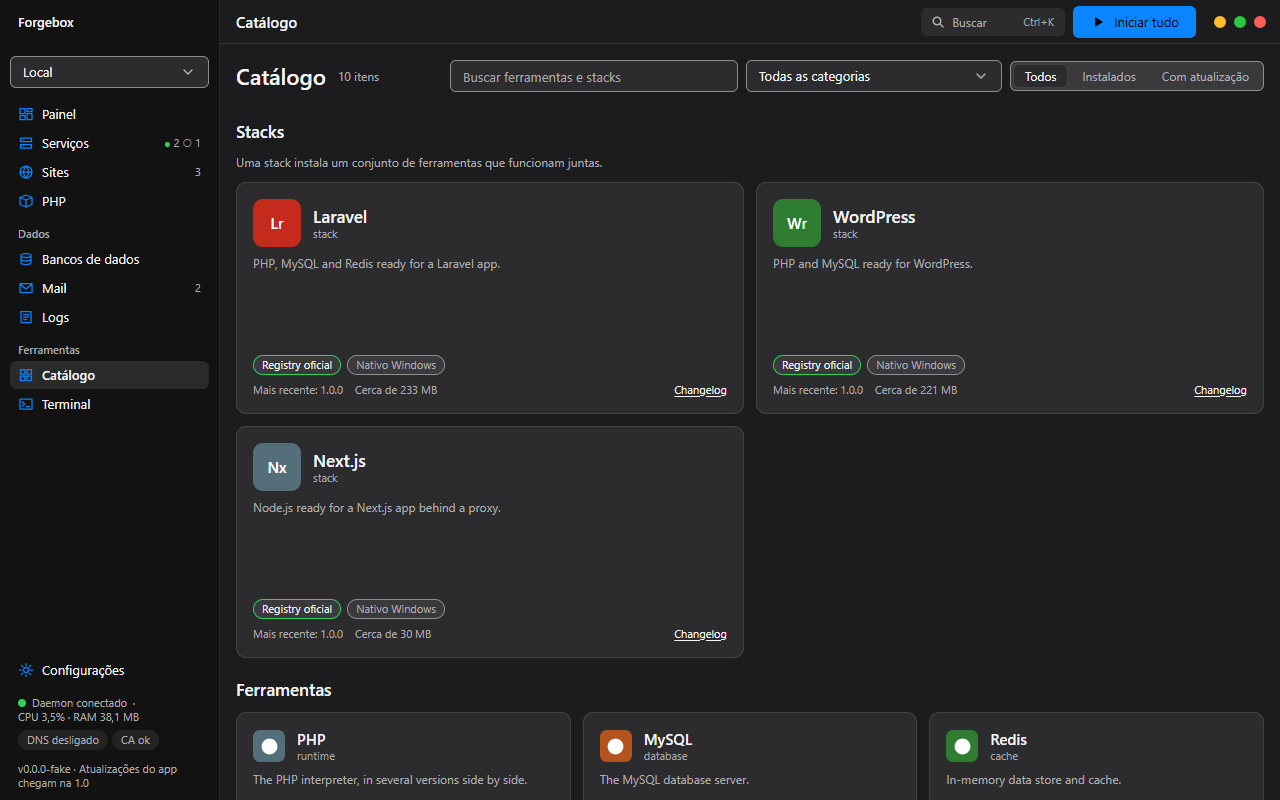
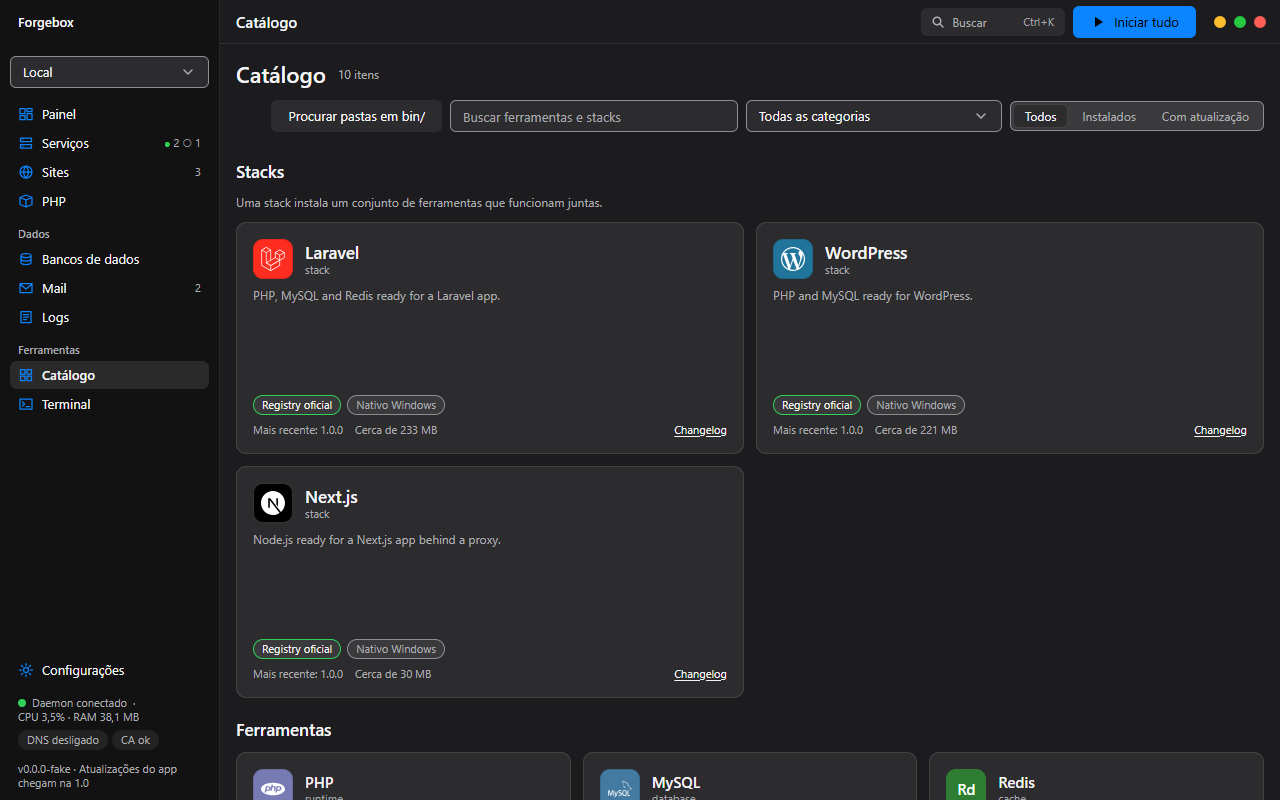
M2-E1-T24: docs, gallery tiles, reference screens and STATUS review
Document style C in docs/07 2.4 and section 6 (ToolTile), add the task to
docs/10, show every official registry icon in the gallery, regenerate the
Catalog, Dashboard and Services reference screens and drop the KNOWN_OPEN
entries of qa/checks/states.spec.ts that E4-T9 already fixed (the
stale-entry guard failed on them).

diff --git a/apps/desktop/src/app/gallery/Gallery.tsx b/apps/desktop/src/app/gallery/Gallery.tsx
@@ -20,6 +20,8 @@ import {
   TextField,
   Toggle,
 } from "../../design/primitives";
+import { ToolTile } from "../../design/primitives/ToolTile";
+import { REGISTRY_ICONS } from "../../../qa/fixtures/scenarios/registryIcons";
 import { CommandPalette } from "../palette/CommandPalette";
 import type { PaletteActions } from "../palette/actions";
 import { P, shows, type GalleryMarker } from "../../design/gallery/marker";
@@ -69,6 +71,8 @@ const SAMPLE_PORT = "80";
 const SAMPLE_PATH = "C:/www/app";
 const KEY_CTRL = "Ctrl";
 const KEY_K = "K";
+// A tool of no registry: the monogram fallback next to the official logos.
+const THIRD_PARTY_TOOL = "redis";
 // Inert actions: the gallery renders the real palette (rows with/without CLI, shortcut and
 // unavailable reason come from the live capabilities, instances and sites) without side effects.
 const NOOP_PALETTE_ACTIONS: PaletteActions = {
@@ -248,6 +252,28 @@ export default function Gallery() {
       <Section title={t("kbd.title")} {...shows(P.Kbd)}>
         <span className="inline-flex items-center gap-1 text-callout text-fg-secondary">
           <Kbd>{KEY_CTRL}</Kbd>+<Kbd>{KEY_K}</Kbd> {t("kbd.palette")}
+        </span>
+      </Section>
+
+      <Section title={t("toolTile.title")} {...shows(P.ToolTile)}>
+        {[...REGISTRY_ICONS].map(([id, icon]) => (
+          <span
+            key={id}
+            data-gallery-tool={id}
+            className="flex w-20 flex-col items-center gap-1 text-caption text-fg-secondary"
+          >
+            <ToolTile tool={id} svg={icon.svg} color={icon.color} variant="grid" />
+            <ToolTile tool={id} svg={icon.svg} color={icon.color} variant="list" />
+            {id}
+          </span>
+        ))}
+        <span
+          data-gallery-tool={THIRD_PARTY_TOOL}
+          className="flex w-20 flex-col items-center gap-1 text-caption text-fg-secondary"
+        >
+          <ToolTile tool={THIRD_PARTY_TOOL} variant="grid" />
+          <ToolTile tool={THIRD_PARTY_TOOL} variant="list" />
+          {t("toolTile.fallback")}
         </span>
       </Section>
 

diff --git a/apps/desktop/qa/checks/states.spec.ts b/apps/desktop/qa/checks/states.spec.ts
@@ -18,22 +18,12 @@ const SCENARIOS_UNDER_TEST = ["errors", "not-implemented", "daemon-down"] as con
  * test below fails when an entry stops reproducing, so whoever fixes the screen has to delete
  * the line (the stale-entry guard), and a new offender outside the list fails the build.
  */
-const SITE = "/sites/01QAS1TE000000000000000001";
 const KNOWN_OPEN: Record<string, string> = {
   "/dashboard|errors":
     "R-09 family (E4-T9): Sites recentes stays a skeleton (Projetos is fixed, R-15)",
   "/dashboard|not-implemented": "R-16 (E4-T9): tiles stay skeletons",
-  "/services|not-implemented": "R-16 (E4-T9)",
-  "/sites|errors": "R-09 (E4-T9)",
-  "/sites|not-implemented": "R-09 (E4-T9)",
-  "/php|not-implemented": "R-16 (E4-T9)",
-  [`${SITE}|errors`]: "R-10 (E4-T9)",
-  [`${SITE}|not-implemented`]: "R-10 (E4-T9)",
-  [`${SITE}|daemon-down`]: "R-10 (E4-T9)",
-  "/catalog/php|not-implemented": "R-16 (E4-T9)",
-  "/catalog/php|daemon-down": "R-16 (E4-T9)",
-  "/catalog/laravel|not-implemented": "R-16 (E4-T9)",
-  "/catalog/laravel|daemon-down": "R-16 (E4-T9)",
+  // The Services, Sites, site detail, PHP and tool page entries were fixed by E4-T9 (the
+  // stale-entry guard below flagged them; removed in M2-E1-T24).
 };
 
 /** The gallery shows skeletons on purpose (it is the primitives catalogue). */

diff --git a/apps/desktop/src/design/gallery/marker.ts b/apps/desktop/src/design/gallery/marker.ts
@@ -25,6 +25,7 @@ export const P = {
   CommandPalette: "CommandPalette",
   Kbd: "Kbd",
   Tooltip: "Tooltip",
+  ToolTile: "ToolTile",
 } as const;
 
 /** Attribute that tells which docs/07 section 6 primitive(s) a gallery block shows. */

diff --git a/docs/10-roadmap-and-agent-tasks.md b/docs/10-roadmap-and-agent-tasks.md
@@ -79,6 +79,7 @@ Convenção de IDs: `M<milestone>-E<épico>-T<tarefa>`. Estados: `todo | doing |
   - **M2-E1-T21 Gate M2-E1 (auditoria do shell, cold start medido, tamanhos).** Aceite do épico em develop: `qa:check` e `qa:perf` no shell, primitivas, paleta e galeria; `e2e-desktop.ps1`; `ci.ps1` e `ci.ps1 -Desktop`. Cold start em janela quieta (release, 1 descartada + 10, com e sem daemon) registrado em docs/07 §10 e STATUS; tamanho do `Forgebox.exe` contra docs/08 (~8 MB) e do JS inicial; correção de achados pequenos e follow-ups Win11 como itens humanos do M2-E4-T11; docs/02, docs/07, índice de ADRs e STATUS atualizados. **Aceite:** Checklist §11 preenchido com evidência por item; mediana de cold start < 800 ms com daemon rodando e parado (números brutos versionados); `ci.ps1`, `ci.ps1 -Desktop` e `e2e-desktop.ps1` verdes; tamanhos registrados contra as metas. Depende de: M2-E4-T6, M2-E1-T15, M2-E1-T16, M2-E1-T18, M2-E1-T20, M2-E4-T4, M2-E4-T5. **Resultado (2026-11-04, [07 §10/§11](07-ui-ux.md#10-performance-orçamentos)):** cold start e tamanhos medidos, orçamentos re-baselinados em `pnpm size` (JS inicial ≤ 175 KiB gzip, chunk lazy ≤ 100 KiB, exe ≤ 17 MiB); follow-ups abertos: redução do `Forgebox.exe` de 16,2 MiB para ~8 MB → M4-E1; long task de ~95 ms na tela PHP → M2-E4-T9; Mica/Acrylic/blur reais, snap layouts, DPI real, bandeja e atalhos globais → verificação humana do M2-E4-T11.
   - **M2-E1-T22 Ícones da marca: app/EXEs e estados da bandeja a partir da arte de referência do usuário.** A arte enviada pelo usuário (mockup 1536x1024: ícone de 512 a 16 px, seis variantes de estado da bandeja, prévia na barra de tarefas e menu da bandeja usado pelo M2-E1-T15) é a fonte da verdade: vira `docs/design/brand/reference-icon-tray.png`, com `docs/design/brand/README.md` (intenção, tabela estado -> selo, como regenerar). Master quadrado e transparente (>= 512 px, 1024 se a qualidade permitir) fiel à referência, sem halo escuro sobre branco, `#f3f3f3`, `#202020` e as barras clara/escura do Win10; se o recorte do raster não ficar limpo, recriar em SVG (`docs/design/brand/forgebox-icon.svg`) e rasterizar. 16/20/24/32 px como variantes simplificadas ajustadas à mão (menos camadas, prompt mais grosso, alinhadas ao pixel), não redução simples. `apps/desktop/src-tauri/icons/*` regenerados com `pnpm -C apps/desktop tauri icon <master>`; `icon.ico` com 16, 20, 24, 32, 40, 48, 64 e 256 (as pequenas ajustadas à mão), usado por `Forgebox.exe`, janela/barra de tarefas e o futuro instalador; o mesmo `.ico` embutido por `build.rs` (`cfg(windows)`, winresource ou embed-resource aprovado no `cargo deny`) em `forge.exe`, `forgeboxd.exe`, `forgebox-helper.exe` (mantendo o manifesto `requireAdministrator` e o teste `embedded_manifest`), `forge-mcp.exe` e `forgebox-ctrl.exe`; EXE que não aceitar fica documentado no PR. Ícones da bandeja `apps/desktop/src-tauri/icons/tray/<estado>-<light|dark>.ico` (16/20/24/32 px, 40/48 opcionais) para base, running, starting-0..7 (anel girando), stopped, updating, warning, error e a sobreposição de contexto remoto (docs/13 §5); variante escura com aro mais claro na caixa, clara com contraste suficiente; selos no canto inferior direito com ~45-50 % do ícone e anel de recorte de 1 px, sempre diferentes também pela forma (ponto, anel, quadrado, seta, `!`). Gerador reproduzível sem Python (`apps/desktop/scripts/gen-icons.mjs` ou `cargo xtask icons`) e `icons:check` que falha com drift sem rede, ligado ao `scripts/ci.ps1 -Desktop`. Folha de contato `docs/design/brand/contact-sheet.png` com todos os ícones em todos os tamanhos sobre barras claras e escuras e em 100/125/150/200 %. Atualiza docs/07 §2.4 e §7 (estados running/starting/stopped/updating/warning/error + indicador remoto, caminho `apps/desktop/src-tauri/icons/tray/`), docs/08 se listar ícones, docs/10, STATUS e `docs/plans/m2-plan.json`. **Aceite:** Todo arquivo de ícone se regenera das fontes em `docs/design/brand` com o gerador versionado (sem Python, sem rede); `icons:check` passa na árvore limpa e falha após editar um `.ico` à mão; `pnpm -C apps/desktop tauri build --debug --no-bundle` produz o `Forgebox.exe` com o ícone novo e `forge.exe`, `forgeboxd.exe`, `forgebox-helper.exe`, `forge-mcp.exe` e `forgebox-ctrl.exe` o carregam (conferido extraindo o recurso), ou o PR explica o que ficou de fora; o teste do manifesto do helper continua passando; a folha de contato mostra os ícones legíveis em 16 px nas barras clara e escura, sem halo escuro em fundo claro e com selos distinguíveis só pela forma; `cargo build/clippy -D warnings/test --workspace`, `cargo deny check` e lint/typecheck/test do desktop passam; docs/07 §2.4 e §7, `docs/design/brand/README.md`, docs/10, STATUS e `docs/plans/m2-plan.json` atualizados. Depende de: M2-E1-T1.
   - **M2-E1-T23 Moldura de vidro (decisão do usuário, 2026-11-04): sidebar de vidro em altura total, controles da janela como bolinhas coloridas à direita, visual mais leve.** Aprovada sobre o mockup `docs/design/reference/glass-mockup.html` (não re-discutir). Layout: a sidebar ocupa a altura toda da janela a partir da borda de cima (sem titlebar de largura total) com a marca 'Forgebox' no topo (região de arrasto); o painel de conteúdo ganha a própria barra de ferramentas (~44 px: título da página, slot da busca `Ctrl+K`, ação primária opcional e os controles da janela no canto direito), toda ela região de arrasto (duplo clique maximiza/restaura; o redimensionar pela borda de cima continua); o onboarding usa a mesma barra. Controles: três bolinhas de ~12 px na ordem do Windows à direita (minimizar amarela, maximizar/restaurar verde, fechar vermelha; tokens com traço interno fino), glifos no hover do grupo, cinza (token) com a janela sem foco (eventos de foco do Tauri), alvo >= 24x24, Tab + anel de foco, `aria-label` + `title`, Enter/Espaço. Vidro: material só atrás da sidebar, conteúdo opaco; nova política em `choose_effect` (usuário desligou/RDP/transparência desligada/alto contraste -> opaco; Windows 11 >= 22621 -> Acrylic; Windows 11 22000 -> Mica; Windows 10 1809+ -> `window_vibrancy::apply_blur` por padrão com a tinta pintada pelo CSS, `--bg-sidebar-glass`), medição de arrasto/redimensionamento com blur x opaco no console físico Win10 19045 registrada no adendo da ADR-0035. Visual mais leve: sidebar estilo Finder (grupos sem bordas com títulos cinza pequenos, seleção preenchida de 7 px, ícones de linha na cor de destaque, contagens à direita), status do daemon/DNS/CA no rodapé da sidebar e barra de status inferior removida (todas as funções mantidas), variantes do `Button` (secundário = preenchimento suave sem contorno, primário sólido, destrutivo com texto vermelho), ícones de tool via `tools.icon` ou monograma colorido em quadrado arredondado (cor determinística pelo id) em toda tela que mostra uma tool. **Aceite:** sidebar em altura total e barra de conteúdo como região de arrasto (vitest + captura real claro/escuro); controles na ordem, cores de token, glifos no hover, cinza sem foco, acessíveis por teclado e leitor de tela (vitest); testes de `choose_effect` para a política nova e adendo da ADR-0035 com a medição; vidro visível na janela real Win10 com conteúdo opaco e fallback `data-vibrancy=off` correto; barra de status removida com as funções no rodapé da sidebar, variantes suaves do `Button` e nenhum ícone de círculo preto em Dashboard/Serviços/Catálogo (teste do monograma); `qa:check` verde, shots `ci` regenerados e `--perf-startup` dentro do orçamento. Depende de: M2-E1-T7, M2-E1-T10, M2-E1-T11.
+  - **M2-E1-T24 Ícones das tools com os logos oficiais (decisão do usuário, 2026-11-04, estilo C: glifo branco oficial em bloco preenchido com a cor da marca).** Aprovado sobre o mockup de ícones (estilos A e B recusados; não re-discutir). (1) Ícones: todo `registry/icons/*.svg` vira a forma oficial do logo como glifo monocromático (`viewBox 0 0 24 24`, `fill=currentColor`, sem `<text>`, <= 20 KB, aprovado por `sanitize_svg`), do Simple Icons 14.0.0 (dados CC0) ou, para Mailpit, Memurai e Xdebug, redesenhado do logo oficial; `registry/icons/ATTRIBUTION.md` lista origem, licença do SVG, dono da marca e guia de marca de cada um (uso nominativo). (2) Cor da marca: `metadata.icon_color` opcional (`#RRGGBB`, validado) em Tool/Extension/Stack (docs/04 §1.10, schema, gen-ts, lint-registry), definido em todo manifesto oficial e exposto em `CatalogEntryDto.icon_color` e `IconDto.icon_color`. (3) `ToolTile`: glifo branco no bloco da cor (`--tool-brand`), contorno interno de 12 %, cor clara escurecida de forma genérica até o branco ter 3:1, contorno claro em blocos muito escuros no tema escuro, tamanhos/raios/contornos como tokens (`list` 30, `grid` 40, `hero` 56); monograma FNV mantido sem ícone ou sem cor. (4) Índice reassinado com a chave de desenvolvimento, docs 04/07, capturas antes/depois. **Aceite:** logos oficiais brancos no bloco da cor da marca em Painel, Serviços, Catálogo, página da ferramenta e onboarding (claro, escuro, sem vibrancy; capturas); SVGs <= 20 KB, `currentColor`, `sanitize_svg` e `lint-registry` verdes, índice reassinado, ATTRIBUTION.md completo; `metadata.icon_color` no schema + docs/04 + TS gerado, hex inválido recusado pelo lint (teste), contraste do branco >= 3:1 em toda cor do registry (teste unitário); monograma para tools sem ícone/cor (vitest); `qa:check` verde. Depende de: M2-E1-T23.
 - **M2-E2 Telas núcleo**: Onboarding, Dashboard, Serviços (+detalhe), Sites (+detalhe com troca de PHP ao vivo), PHP, Catálogo (instalar com progresso). **Aceite:** cada tela com estados vazio/carregando/erro; paridade com CLI (mostra comando).
   - **M2-E2-T1 Contratos IPC das telas núcleo.** PR contract-first, todo aditivo (`API_VERSION` segue 1.1). Métodos novos com `cli_template` e stub clap: `tools.releases` (job), `tools.plan` (job; `--dry-run`), `tools.history`, `tools.icon`, `services.settings`, `sites.driver` (job), `services.update` (job) e `tls.list`. Campos novos em `CatalogEntryDto`, `ToolInfoDto`, `ToolInstallParams.target` (`--for php@8.3`), `ServiceCreateParams.data_dir`, `InstanceDto.data_dir/size_bytes` e `SiteProcessDto.instance_id`/`site_id` nos payloads `service.*`. Tudo registrado em `NOT_IMPLEMENTED` com o id da tarefa implementadora. ADR-0041 e docs/09. **Aceite:** Round-trip serde de todo DTO/campo novo e JSON da API 1.0 desserializa com defaults; linhas de `METHODS` com kind/role/mutating/local_only corretos; gen-ts sem drift; golden e round-trip clap cobrem os templates; cada forma de CLI nova sai com 1 e `not_implemented` nomeando a tarefa. Depende de: M2-E1-T4.
   - **M2-E2-T2 Correção do domínio de `seq` em `logs.subscribe`.** Hoje o backlog das instâncias é numerado por linha do arquivo e as linhas ao vivo por um `seq` em memória do `LogHub`, alvos de arquivo zeram o `seq` na rotação e `resume_from` nunca reenvia o que se perdeu; o cliente descarta linhas ao vivo com `seq <= last_seq`, o que também quebra o `forge logs -f` já lançado. Correção: um `seq` monotônico por alvo (índice absoluto de linha no conjunto retido, inclusive rotacionados); no resume, reenvia dos arquivos se o cursor estiver dentro do retido, senão `logs.lagged{missed}`; devolve o `last_seq` verdadeiro. Mudança autocontida (`logs.rs`, `LogHub`, testes). Decisão do usuário: sem hotfix 0.1.1, a correção entra só no develop / 0.2.0. **Aceite:** Regressões: tail após reinício do daemon, após rotação e resume com reenvio ou `logs.lagged`; `seq` estritamente monotônico por alvo; `forge logs <instância> -f` vê linhas ao vivo após reinício; testes de logs e de assinante lento seguem passando.

diff --git a/docs/STATUS.md b/docs/STATUS.md
@@ -59,7 +59,7 @@ Ao iniciar uma tarefa, marcar `doing` (primeiro commit); ao terminar, `review` (
 | M2-E1-T21 | Gate M2-E1 (auditoria do shell, cold start medido, tamanhos) | done | feature/M2-E1-T21-e1-gate | Épico M2-E1 fechado: checklist §11 com evidência por item e por superfície do shell ([07 §11](07-ui-ux.md#11-checklist-de-revisão-de-ui-para-agentes)), números brutos em [07 §10](07-ui-ux.md#10-performance-orçamentos), adendo da [ADR-0034](adr/0034-desktop-shell-architecture.md). Cold start (release, 1 descartada + 10): RDP 770/776,5 ms com daemon e 760,5/770,5 sem; console (depois do T23, blur) 590/579,5 com e 565,5/563,5 sem; todas < 800. Correções: auto-start automático do daemon espera o primeiro quadro (`FirstFrameGate`, teto 3 s; parado caiu de 1 037 ms), estado `reconnecting` preservado, pausa de 1,5 s no `perf:startup`, Start/Stop all verificados no `qa:check` (0 skipped), drift do fakeBridge no e2e, `e2e/live` fora do `pnpm e2e`. Tamanhos (`pnpm size`, no `ci.ps1 -Desktop` e no CI): JS inicial 165,8 KiB gzip (orçamento re-baselinado ≤ 175; ~70 kB abandonado), chunk lazy máx. xterm 80,2 KiB (≤ 100), `Forgebox.exe` 16,26 MiB contra ~8 MB (orçamento ≤ 17 MiB; redução → M4-E1); forge-core 62 KiB + SQLite 71 KiB de `.text` pelo forge-ipc. Verde: `ci.ps1 -Desktop` (vitest 1 209, Playwright 117, qa:check 428, qa:shots 22), `e2e-desktop.ps1` 4/4, `qa:perf` 5/5 specs (estouro `interaction.longTaskMaxMs` ~83-98 ms na tela PHP → M2-E4-T9). `ci.ps1` Rust completo fica para o gate de lote (regra de verificação leve). Itens Win11/humanos → M2-E4-T11. |
 | M2-E1-T22 | Ícones da marca: app/EXEs e estados da bandeja (arte de referência do usuário) | done | feature/M2-E1-T22-brand-icons | `docs/design/brand/`: referência do usuário, master SVG recriado (raster da referência não recortava limpo), grades pixel a pixel 16/20/24/32, `palette.json` (temas app/light/dark), README, `contact-sheet.png`. `apps/desktop/scripts/gen-icons.mjs` (@resvg/resvg-js 2.6.2, sem Python/rede): `icon.ico` 16-256 (BMP < 256, PNG 256), conjunto do `tauri icon` fixado (ICNS ordenado), `icons/tray/<estado>-<light|dark>.ico` (base, running, starting-0..7, stopped, updating, warning=triângulo, error) + `remote-*.ico`; `icons:check` (byte a byte, falha com `.ico` editado) no vitest e em `scripts/ci.ps1 -Desktop` (switch mínimo, o M2-E1-T20 completa). Ícone 32512 embutido via embed-resource (rc.exe do Windows SDK) em forge, forgeboxd, forgebox-helper (manifesto mantido), forge-mcp e forgebox-ctrl; `Forgebox.exe` via tauri-build (+ `rerun-if-changed` do `icon.ico`). Testes `exe_icon` por EXE + `pe_resources::icon_group`; extração conferida nos 6 EXEs do `tauri build --debug --no-bundle`. docs/07 §2.4/§7, 02, 08, 10 (T22, E4-T12, T15 atualizada), m2-plan.json. |
 | M2-E1-T23 | Moldura de vidro: sidebar de vidro em altura total, controles da janela como bolinhas à direita, visual mais leve | done | feature/M2-E1-T23-glass-chrome | Decisão do usuário 2026-11-04 (mockup em `docs/design/reference/glass-mockup.html`). Sidebar em altura total com a marca (região de arrasto), barra do conteúdo de 44 px (título da seção, busca, Iniciar tudo, controles; `deep` drag region), bolinhas min/max/fechar à direita na ordem do Windows com tokens `window-*`, glifos no hover, cinza sem foco (`onFocusChanged`), alvos 24x24 com anel. `choose_effect`: Win11 >= 22621 Acrylic, 22000 Mica, Win10 1809+ `apply_blur` por padrão (tinta CSS `--bg-sidebar-glass`), RDP/transparência/alto contraste/usuário -> opaco (testes). Barra de status removida -> `SidebarStatus` no rodapé (conexão, CPU/RAM, chips DNS/CA). `Button`: secundário suave (`fill`), destrutivo sem contorno. `ToolTile`: ícone monocromático branco sobre ladrilho `tool-N`, monograma colorido sem ícone (fim dos círculos pretos). Medido no console físico Win10 19045 (release): arrasto/redimensionar com desfoque sem degradação (rAF p99 16,9-17,0 ms; opaco teve quadros de 33-67 ms no arrasto), padrão desfoque mantido; cold start `--daemon stopped` mediana 572,5 ms (orçamento 800), A/B opaco 551 x desfoque 558,5 ms. Capturas reais claro/escuro/vibrancy-off; `qa:check` 426 ok; shots ci regenerados. ADR-0035 adendo, docs/07 §1.6/2.3/2.4/4, components.md. |
-| M2-E1-T24 | Ícones das tools com os logos oficiais (estilo C: glifo branco em bloco da cor da marca) | doing | feature/M2-E1-T24-tool-brand-icons | |
+| M2-E1-T24 | Ícones das tools com os logos oficiais (estilo C: glifo branco em bloco da cor da marca) | review | feature/M2-E1-T24-tool-brand-icons | 16 `registry/icons/*.svg` = forma oficial do logo (Simple Icons 14.0.0 CC0; Mailpit/Memurai/Xdebug redesenhados do logo do projeto), 24x24 `currentColor`, maior 16,6 KB (Composer simplificado), `sanitize_svg` + teste em `forge-registry/tests/icons.rs`; `registry/icons/ATTRIBUTION.md` (origem, licença, dono da marca, guia; uso nominativo; lint aceita só esse não-SVG). `metadata.icon_color` (`#RRGGBB`, `invalid_value`, `pattern` no schema) em Tool/Extension/Stack, nos 17 manifestos e em `CatalogEntryDto`/`IconDto` (gen-ts); índices oficial e `tests/fixtures/registry-icons` reassinados. `ToolTile` estilo C: `--tool-brand`, escurecimento genérico até 3:1 (só Mailpit), contorno claro em blocos escuros (MariaDB/Memurai/Next.js), tokens `tool-tile` (list 30/19/8, grid 40/24/10, hero 56/34/14) e cores `tool-tile-stroke`/`tool-tile-edge`; monograma sem ícone ou cor; galeria mostra os 16. Fixtures QA servem os ícones reais. `qa:check` 570: verde exceto o teclado do Painel (R-14, passa 6/6 isolado); 11 entradas velhas de `KNOWN_OPEN` (corrigidas no E4-T9) removidas de `qa/checks/states.spec.ts`. Capturas de referência do Catálogo/Painel/Serviços regeneradas. |
 | M2-E2-T1 | Contratos IPC das telas núcleo | done | feature/M2-E2-T1-e2-ipc-contract | [ADR-0041](adr/0041-ipc-additions-m2-core-screens.md). Contrato aditivo na API 1.1 (sem subir versão): `tools.releases` e `tools.plan` (jobs, viewer; releases por versão com os builds dentro, `stale`/`fetched_at`; plano por `specs` ou `stack` com `reason`, `total_bytes` com estimativas e `unknown_size`; plano de stack sem comando), `tools.history`, `tools.icon` (SVG sanitizado, cache por `sha256`), `services.settings` (viewer; `QuickSettingDto` com `SettingValueDto` tipado por `kind`, `files`, `ports`, `advanced` só para admin), `services.update` (job, admin, patch: `autostart`, `launch {args, env}`, `restart_policy`, `version` da mesma série), `sites.driver` (job, operator; `auto` detecta de novo) e `tls.list` (`CertificateDto.trusted|ca_thumbprint_sha256`). Campos novos: metadados de `CatalogEntryDto` (kind, summary, color, icon_sha256, platforms, native, official, latest, update_available, size_estimate_bytes) e `ToolInfoDto` (kind, description_md, links, license, variantes com rótulos, suggests, extends, stack), `ToolInstallParams|ToolRemoveParams.target` (`--for`), `ServiceCreateParams.data_dir`, `InstanceDto.data_dir|size_bytes`, `SiteProcessDto.instance_id`, `ServicePayload.site_id`; `version_not_installed` reservado para `sites.php`. `NOT_IMPLEMENTED` com a tarefa dona (T4 history/icon, T5 releases/plan, T6 driver/tls.list, T7 settings/set, T9 php.ext_*/xdebug, T10 update) e espelho da GUI; `target` → `not_implemented` M2-E2-T8 e `data_dir` → M2-E2-T10 em vez de ignorados; a busca já preenche kind/summary/official/latest e a instância expõe `data_dir`. CLI: `tool info --versions|--history`, `tool install --dry-run|--for`, `tool remove --for`, `service create --data-dir`, `service set <alvo>` sem pares (lê), `service update`, `site driver`, `tls list`; template de `services.set` com `[settings]`. GUI: `JOB_EFFECTS` dos jobs novos e consultas nos grupos de invalidação. Testes: `forge-ipc/tests/e2_dtos.rs` (16, round-trip + JSON 1.0), papéis/flags em `contracts.rs`, 19 entradas novas no golden (207), ida e volta do clap com a regra dos pares, 14 linhas novas em `forge-cli/tests/commands.rs`, teste do daemon por tarefa. Gates: fmt, build, clippy `--all-targets -D warnings`, `cargo test --workspace` 1 550 ok / 0 falhas (36 ignorados online), deny, arch-guard, lint-registry ok; schema/gen-ts sem drift; desktop typecheck/lint/vitest 369/build ok. Docs 03 §8, 04 §1.3, 09, 13 §2. |
 | M2-E2-T2 | Correção do domínio de `seq` em `logs.subscribe` | done | feature/M2-E2-T2-logs-seq-fix | [ADR-0046](adr/0046-logs-seq-domain.md). `seq` = índice absoluto da linha no conjunto de arquivos do alvo (`forge_supervisor::logs::set`: `.out.log.N` … `.out.log` + sidecar `.out.log.seq` com as linhas que a rotação apagou; log diário do daemon = `dia << 32 + linha`). O `LogHub` (um por instância, compartilhado pelas execuções) conta os arquivos em `spawn_blocking` e numera continuando-os: backlog, reenvio e ao vivo no mesmo domínio através de reinícios do daemon e rotações. `logs.subscribe` devolve o `last_seq` verdadeiro, reenvia dos arquivos no `resume_from` (até 10 000 linhas) ou manda `logs.lagged{missed}` com a contagem exata; alvos de arquivo seguem a rotação sem zerar (`set::Follower` em `spawn_blocking`); assinante lento inalterado (broadcast drop-oldest); prazo de resposta de `logs.read`/`logs.subscribe` 8 s. Testes: unitários (supervisor 14, daemon 6), `forge-daemon/tests/logs_seq.rs` contra o daemon real (tail + ao vivo após reinício, monotonicidade na rotação, retomada com reenvio e com `lagged`, retomada do próprio cliente) e `forge-cli/tests/logs_seq.rs` (`forge logs mailpit -f` através de dois reinícios; 3/3 execuções). Gates: fmt, build, clippy `--all-targets -D warnings`, deny, lint-registry, schema/gen-ts sem drift ok; `cargo test --workspace` 1319 ok, só os orçamentos de latência de `forge-daemon/tests/concurrency.rs` oscilam com a máquina carregada (3/3 ok numa reexecução sem outro build). Sem hotfix 0.1.1 (decisão do usuário): entra só no develop. |
 | M2-E2-T3 | Registry: stack PHP genérica + tags e ordem do onboarding | done | feature/M2-E2-T3-registry-onboarding-stacks | `registry/stacks/php.yaml` (generic-php, sem `create_with`: schema não exige); tag `onboarding` + novo `metadata.order` (laravel 1, wordpress 2, php 3, nextjs 4). Índice agora lista stacks com `order` primeiro (docs/04 §5). Índice regenerado e assinado com a chave dev (6F03D19A26B6D573); lint 0 issues (18 arquivos). Testes: forge-registry `official_onboarding` (5), forge-manifest `index_order` (2), `registry_lint` e snapshot do schema atualizados. |

diff --git a/docs/07-ui-ux.md b/docs/07-ui-ux.md
@@ -50,9 +50,9 @@ Fonte única: [`docs/design/tokens.json`](design/tokens.json) (DTCG). `pnpm -C a
 - **Materiais** ([ADR-0035](adr/0035-window-chrome-materials.md) e o adendo M2-E1-T23): a janela inteira recebe o material e o CSS decide onde ele aparece — **só a sidebar** fica sobre o material (`--bg-canvas` transparente e `--bg-sidebar` = `--bg-sidebar-material` com `data-vibrancy="on"`), o painel de conteúdo (barra de ferramentas incluída) é **opaco** (`--bg-canvas-solid`) para legibilidade e performance. Política (`choose_effect`, função pura em `src-tauri/src/window.rs`), nesta ordem: o usuário desligou (`vibrancy: "off"` nas preferências da GUI), alto contraste, sessão RDP ou "Efeitos de transparência" desligado → **opaco**; Windows 11 build ≥ 22621 (22H2) → **Acrylic** (o backdrop do sistema, sem atraso ao arrastar); Windows 11 22000–22620 → **Mica**; Windows 10 1809+ → **desfoque do DWM** (`window_vibrancy::apply_blur`, sem tinta nativa: a sidebar pinta `--bg-sidebar-glass` por cima, `data-effect="blur"`), ou Acrylic com o opt-in `win10_acrylic` (o Acrylic do Windows 10 atrasa arrastar/redimensionar); mais antigo/desconhecido → opaco. A medição de arrasto/redimensionamento com desfoque × opaco no console físico do Windows 10 está no adendo da ADR. O efeito é aplicado pelo crate `window-vibrancy` e o `Result` dele decide o fallback (o `set_effects` do Tauri responde `Ok` no Windows 10 sem fazer nada e não é usado). Reavaliado quando o tema muda, quando a janela ganha foco (cobre transparência, alto contraste e reconexão RDP) e quando uma preferência muda. O shell põe em `<html>` `data-theme` (`light`/`dark`), `data-vibrancy` (`on` só com material em efeito; `off` pinta `--bg-*-solid` — sem material a área transparente ficaria preta), `data-effect` (`mica`/`acrylic`/`blur`/`none`), `data-contrast="high"` e `--system-accent` (`src/app/appearance.ts`, antes do primeiro paint por um script de inicialização e depois pelo evento `forge://appearance`; fora do Tauri, `?theme=&vibrancy=&effect=` fazem o mesmo). Diagnóstico: `FORGE_GUI_EFFECT=mica|acrylic|blur|none` força a tentativa (QA/medição). Os fatos do SO vêm de `forge_core::platform::SystemAppearance` (via `forge_ipc::base::platform`): `os_build`/`is_win11`, `remote_session` (RDP), `transparency` ("Efeitos de transparência"; o `prefers-reduced-transparency` do WebView2 reflete o mesmo interruptor), `high_contrast`, e `apps_light`/`taskbar_light` (tema dos apps e da barra de tarefas, que escolhe a variante dos ícones da bandeja, §7).
 
 ### 2.4 Iconografia
-- Set único (Lucide, stroke 1.5) para UI; logos das tools em SVG monocromático + colorido (do registry).
-- **Ícone de tool em toda tela que mostra uma** (Dashboard, Serviços, Catálogo, onboarding; `ToolTile` em `src/design/primitives`, M2-E1-T23): o SVG de `tools.icon` sempre como `<img>` com data URI (nunca SVG inline, §7/docs/11); SVG colorido aparece como é; SVG monocromático (`currentColor`/preto, ou sem pintura — dentro de `<img>` viraria um círculo preto) aparece branco sobre um quadrado arredondado na cor `--tool-N`; sem ícone, o mesmo quadrado com um monograma de duas letras (`mysql` → "My", `redis` → "Rd", `php-fpm` → "Pf"). A cor sai do id da tool (FNV-1a sobre 8 tokens), nunca do manifesto.
-- Tamanhos: 16 (inline), 20 (lista), 24 (toolbar), 32/48 (cards).
+- Set único (Lucide, stroke 1.5) para UI; logos das tools = a forma oficial de cada logo em SVG monocromático (do registry, [04](04-tool-manifest-spec.md) §1.10).
+- **Ícone de tool em toda tela que mostra uma** (Dashboard, Serviços, Catálogo, página da ferramenta, onboarding; `ToolTile` em `src/design/primitives`; estilo C aprovado pelo usuário em 2026-11-04 sobre o mockup de ícones, M2-E1-T24): o **logo oficial em branco** sobre um quadrado arredondado **preenchido com a cor da marca** (`metadata.icon_color`, que chega em `CatalogEntryDto.icon_color`/`IconDto.icon_color`), com contorno interno fino `--tool-tile-stroke` (preto 12 %). A cor entra só pela propriedade CSS `--tool-brand` (nenhum literal de cor no componente). Contraste: o branco precisa de ≥ 3:1 contra o bloco; uma cor clara é escurecida (misturada com preto em passos de 2 %, cálculo genérico pela luminância, nunca por id — hoje só o Mailpit) até chegar a 3:1. Blocos muito escuros (luminância < 0,05: MariaDB, Memurai, Next.js) usam `--tool-tile-edge`, um contorno claro sutil no tema escuro para a borda não sumir no canvas escuro. Em cores forçadas o bloco mantém a cor (`forced-color-adjust: none`), senão o glifo branco sumiria. O SVG de `tools.icon` é sempre `<img>` com data URI (nunca SVG inline, §7/docs/11), embranquecido por `brightness(0) invert(1)`; um SVG colorido de registry de terceiros aparece como é. **Fallback:** sem ícone ou sem `icon_color` (registries de terceiros) o mesmo quadrado mostra um monograma de duas letras (`mysql` → "My", `redis` → "Rd", `php-fpm` → "Pf") na cor `--tool-N` (FNV-1a do id sobre 8 tokens).
+- Tamanhos (tokens `tool-tile` em `docs/design/tokens.json`): `list` 30 px, glifo 19 px, raio 8 (linhas de Serviços, tiles do Painel, cabeçalho do sheet); `grid` 40 px, glifo 24 px, raio 10 (cards do Catálogo e do onboarding); `hero` 56 px, glifo 34 px, raio 14 (cabeçalho da página da ferramenta). A galeria (`/__gallery`) mostra todos os ícones do registry oficial nos tamanhos `grid` e `list` e o monograma. Outros ícones de UI: 16 (inline), 20 (lista), 24 (toolbar).
 - **Ícone do app (marca)** — fonte em [`docs/design/brand/`](design/brand/README.md), a partir da arte de referência do usuário (`reference-icon-tray.png`): caixa escura aberta com o prompt `>_`, camadas roxo/verde e laranja e tampa de vidro azul flutuante. Master vetorial `forgebox-icon.svg` (transparente, sem glow, sem halo em fundo claro) para 40/48/64/256 px e o conjunto do Tauri; 16/20/24/32 px são grades desenhadas pixel a pixel (menos camadas, prompt de 2 px, alinhadas à grade 2:1), não reduções. `apps/desktop/src-tauri/icons/icon.ico` (16, 20, 24, 32, 40, 48, 64, 256) é o recurso 32512 do `Forgebox.exe` (ícone do EXE, da janela e da barra de tarefas, e do futuro instalador) e é embutido com o mesmo id em `forge.exe`, `forgeboxd.exe`, `forgebox-helper.exe`, `forge-mcp.exe` e `forgebox-ctrl.exe` pelos `build.rs` (rc.exe do Windows SDK). Tudo é gerado por `pnpm -C apps/desktop icons`; `icons:check` falha se um arquivo divergir das fontes.
 
 ### 2.5 Elevação e profundidade
@@ -216,7 +216,7 @@ Decisão do usuário de 2026-11-04 (M2-E1-T23, aprovada sobre [`docs/design/refe
   - Testes: `diagnostics.test.tsx` e `model.test.ts` (vitest), `e2e/diagnostics.spec.ts` (Playwright, cenário `populated` com `qa/fixtures/scenarios/diagnostics.ts`) e as ações no gate de paridade GUI/CLI (`gui-commands.json`).
 
 ## 6. Componentes (primitives em `src/design/primitives/`)
-Button (primary/secondary/ghost/destructive, com loading), IconButton, Toggle, Select (Radix), Combobox, Segmented control, Slider, TextField (com validação inline), PathField (com "Procurar…"), PortField (verifica disponibilidade ao digitar), Badge, StatusDot (5 estados), Card, ListRow, Sheet (lateral), Popover, Menu (contexto), Toast (empilhado, ação de desfazer), Progress (linear/circular), Sparkline, EmptyState (ilustração + ação), Skeleton, CommandPalette, Kbd, Tooltip (com comando `forge`).
+Button (primary/secondary/ghost/destructive, com loading), IconButton, Toggle, Select (Radix), Combobox, Segmented control, Slider, TextField (com validação inline), PathField (com "Procurar…"), PortField (verifica disponibilidade ao digitar), Badge, StatusDot (5 estados), Card, ListRow, Sheet (lateral), Popover, Menu (contexto), Toast (empilhado, ação de desfazer), Progress (linear/circular), Sparkline, EmptyState (ilustração + ação), Skeleton, CommandPalette, Kbd, Tooltip (com comando `forge`), ToolTile (logo oficial branco na cor da marca ou monograma, §2.4).
 
 ## 7. Bandeja (tray)
 - Ícone (arte do usuário, [docs/design/brand](design/brand/README.md)) = ícone do app + um selo no canto inferior direito (metade do ícone, anel de recorte de 1 px), sempre diferente também pela forma, nunca só pela cor. Estado agregado: **running** (ponto verde: tudo que está habilitado rodando), **starting** (anel azul girando: 8 quadros, ~8 fps só enquanto inicia, quadro estático com movimento reduzido), **stopped** (quadrado vermelho: nada rodando), **updating** (seta azul: atualização pendente ou job de instalação/atualização), **warning** (triângulo âmbar com `!`: algum serviço falhou ou está em crash-loop enquanto outros rodam), **error** (`!` vermelho em disco: daemon inacessível ou todos os serviços habilitados falharam); `base` (sem selo) antes do primeiro estado. Precedência: error > warning > starting > updating > running > stopped (M2-E1-T15).
